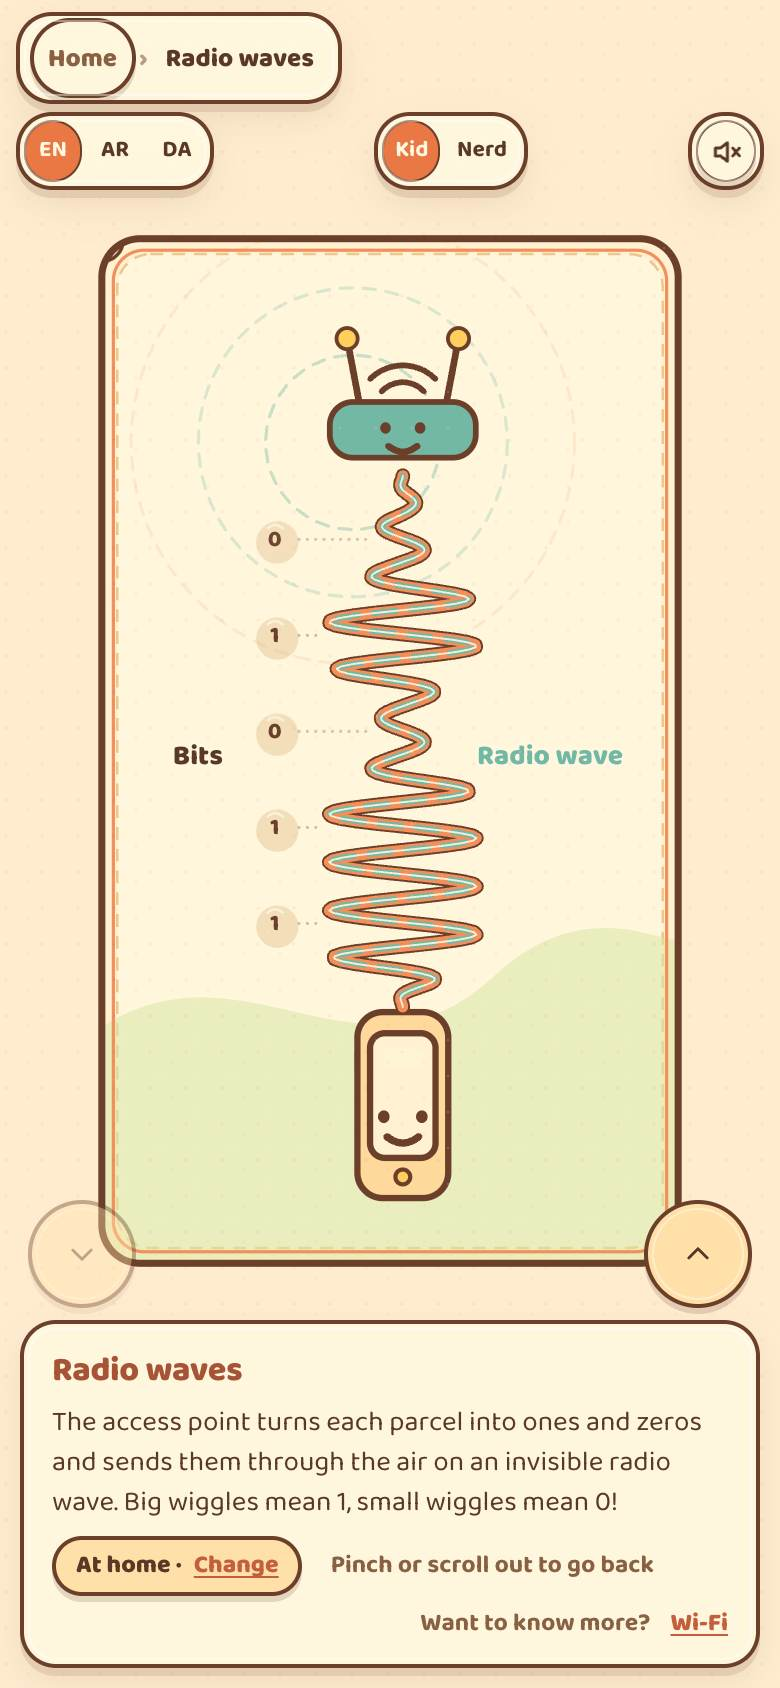
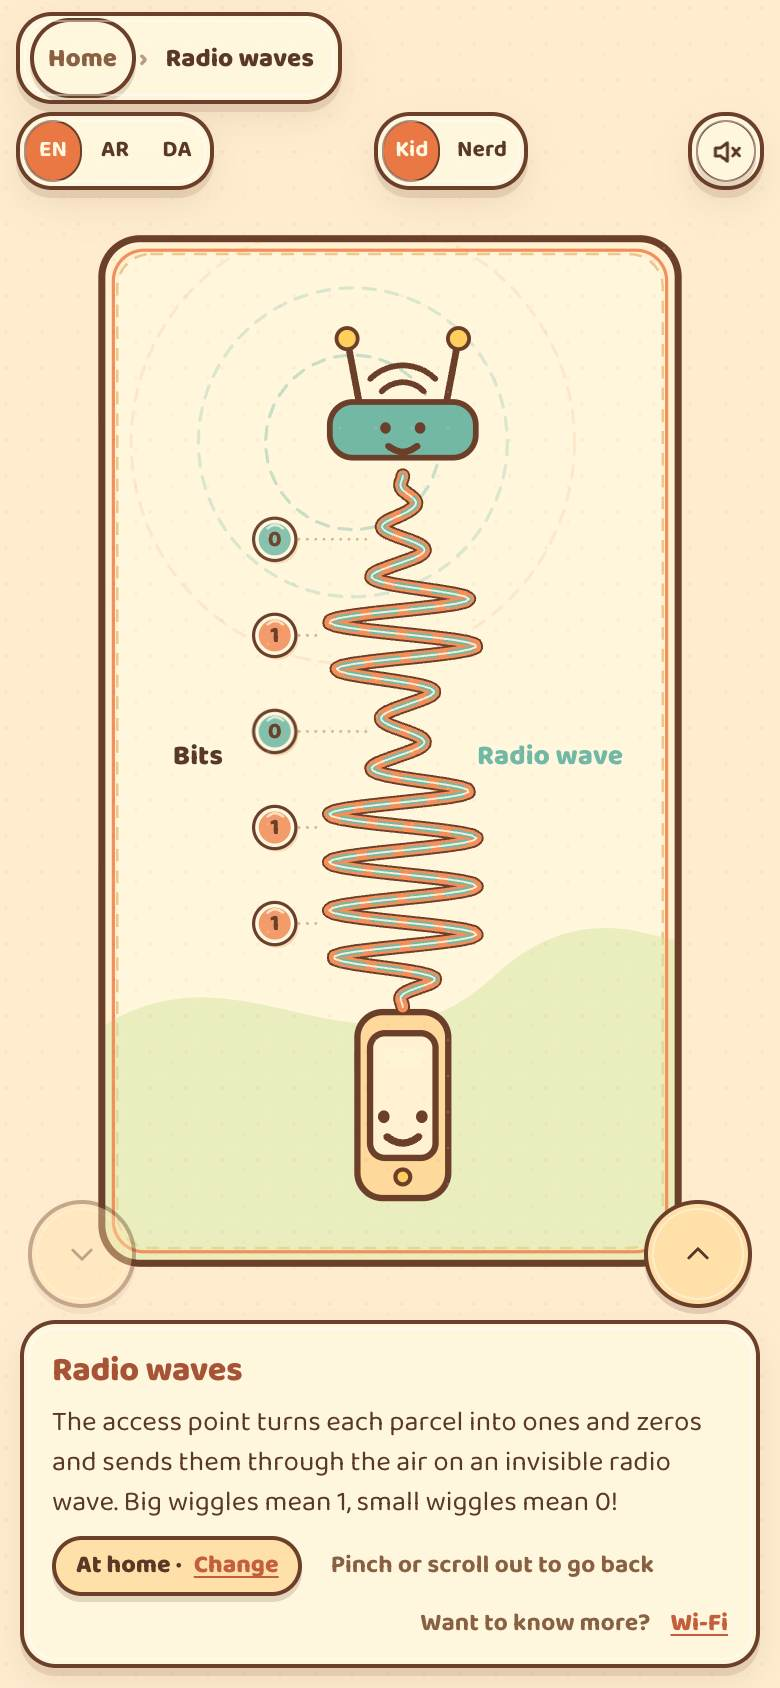
Wi-Fi dive: draw the bit chips where they are (circles used x/y instead of cx/cy since the prototype)

Changed region(s): [[0.3077, 0.3081, 0.4, 0.5853]]

diff --git a/content/scenes/wifi-radio/art/Bit.svelte b/content/scenes/wifi-radio/art/Bit.svelte
@@ -8,8 +8,8 @@
 <g opacity={alpha} transform="translate(0 {bob})">
   <line x1={stem[0].x} y1={stem[0].y} x2={stem[1].x} y2={stem[1].y} stroke="#6b3f2a" stroke-width="4" stroke-dasharray="4 9" opacity="0.35" />
   <circle cx={x + 4} cy={y + 5} r="33" fill="#d9a66b" opacity="0.3" />
-  <circle {x} {y} r="33" fill="#fff7df" stroke="#6b3f2a" stroke-width="5" />
-  <circle {x} {y} r="25" fill={colour} opacity="0.88" />
+  <circle cx={x} cy={y} r="33" fill="#fff7df" stroke="#6b3f2a" stroke-width="5" />
+  <circle cx={x} cy={y} r="25" fill={colour} opacity="0.88" />
   <path d={`M${x - 11} ${y - 17} Q${x} ${y - 28} ${x + 13} ${y - 17}`} stroke="#fff7df" stroke-width="4" fill="none" stroke-linecap="round" opacity="0.75" />
   <text class="bit-digit" {x} y={y + 1} fill="#6b3f2a" font-size="36" font-weight="800" text-anchor="middle" dominant-baseline="central">{bit}</text>
 </g>
